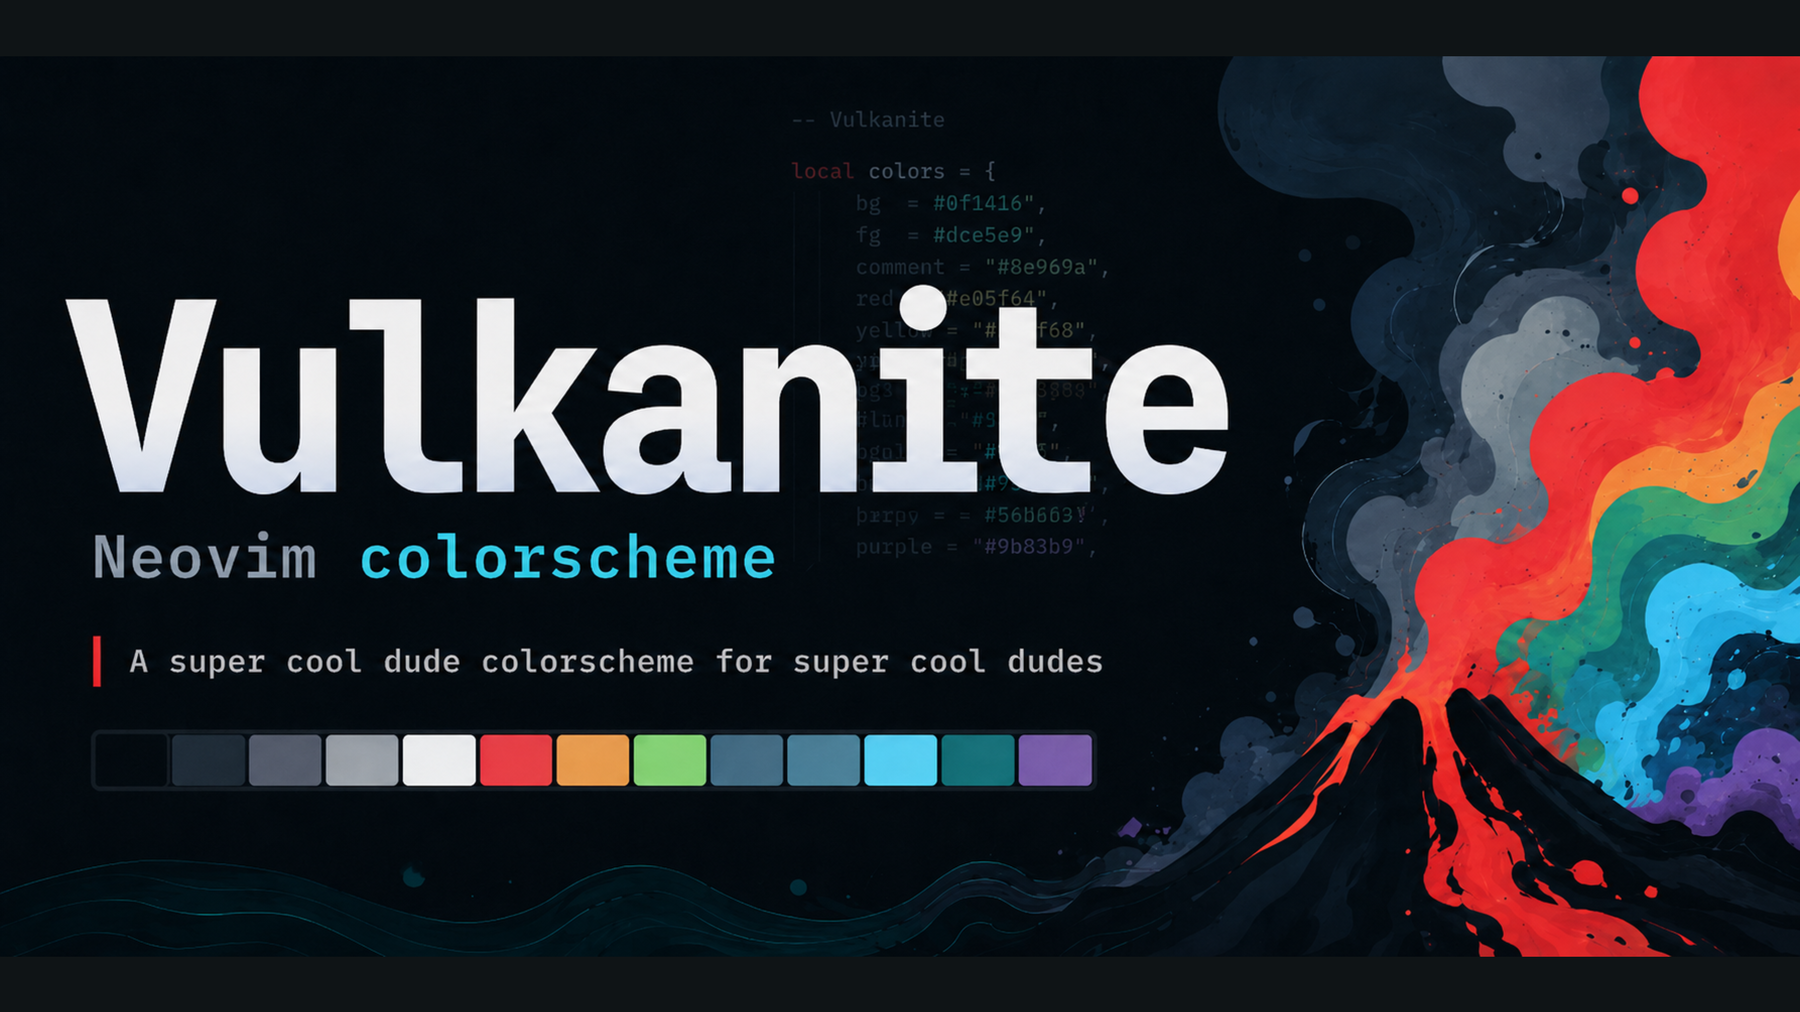
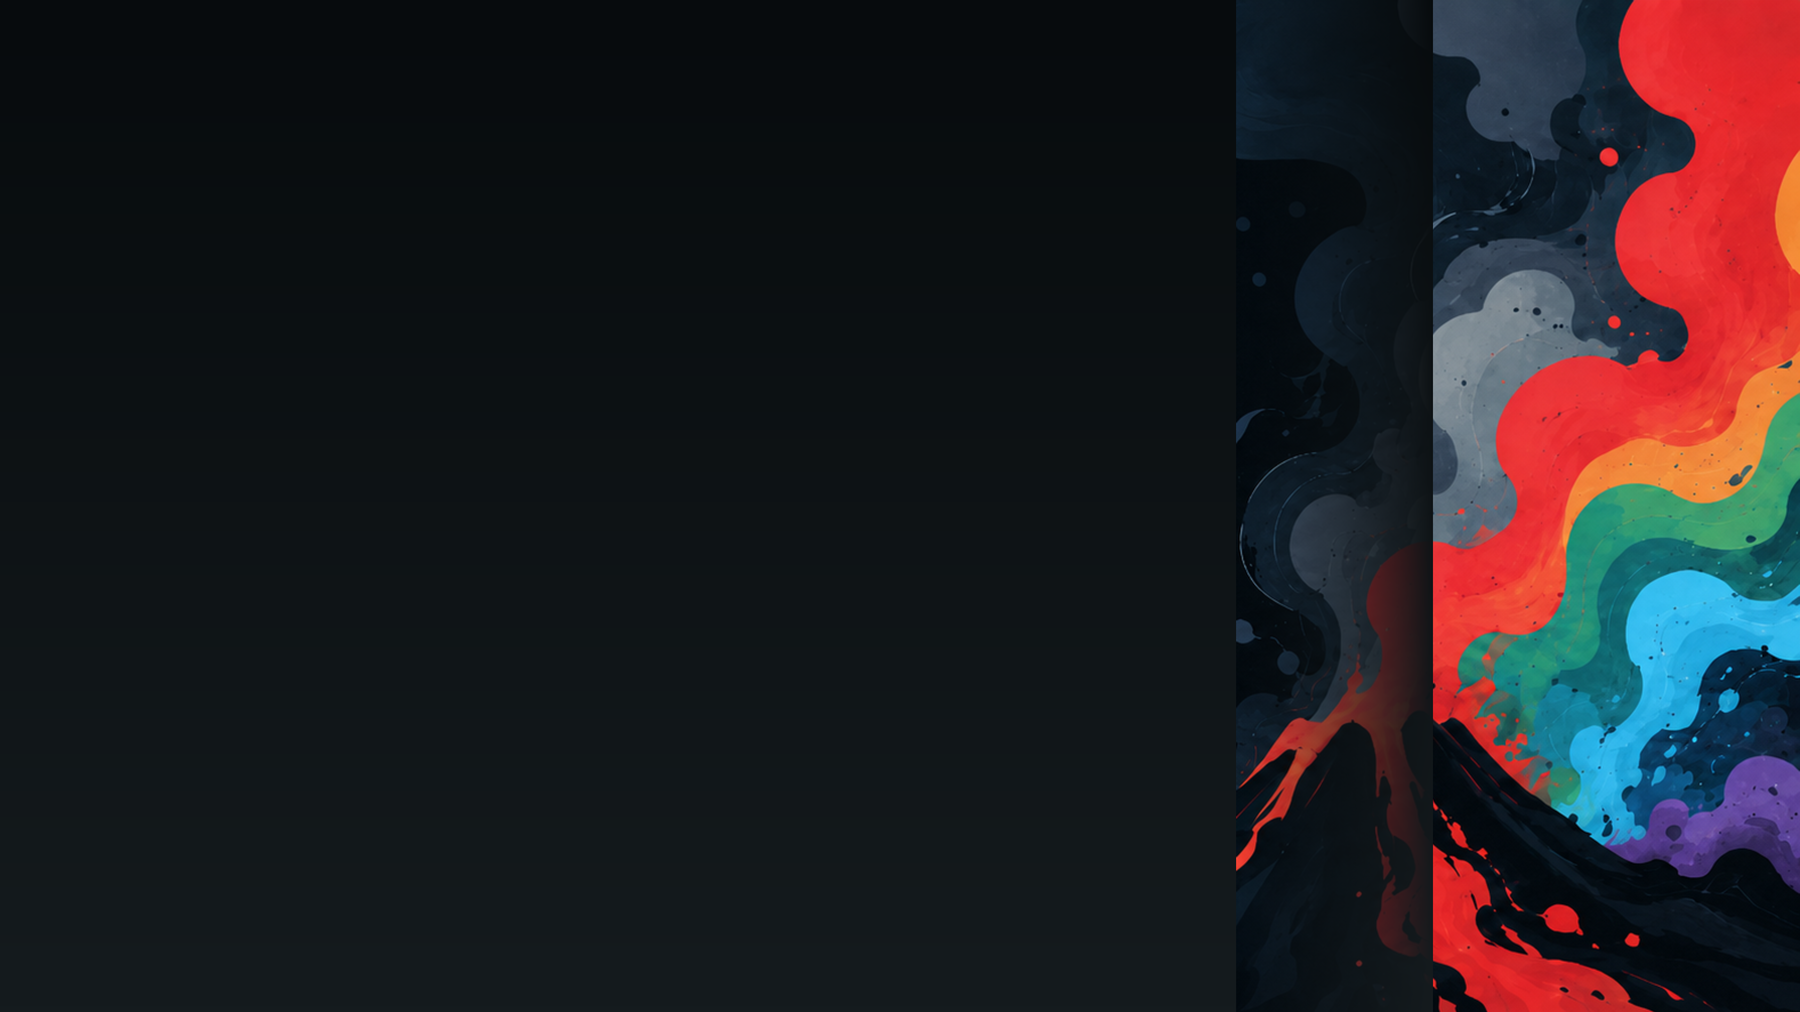
feat: add premium Omarchy 4 styling

diff --git a/README.md b/README.md
@@ -10,7 +10,7 @@ A dark [Omarchy](https://omarchy.org) theme built from the [Vulkanite](https://g
 omarchy theme install https://github.com/kyerpotts/omarchy-vulkanite-theme.git
 ```
 
-The theme applies Vulkanite across Omarchy-generated terminal, shell, launcher, lock-screen, TUI, and editor configurations. LazyVim uses the original `vulkanite.nvim` colorscheme.
+The theme applies Vulkanite across Omarchy-generated terminal, shell, launcher, lock-screen, TUI, and editor configurations. Its Omarchy 4 treatment adds compact glass surfaces, cyan-to-teal Hyprland borders, tuned blur and spacing, and three 4K volcanic backgrounds. LazyVim uses the original `vulkanite.nvim` colorscheme.
 
 ## Palette
 
